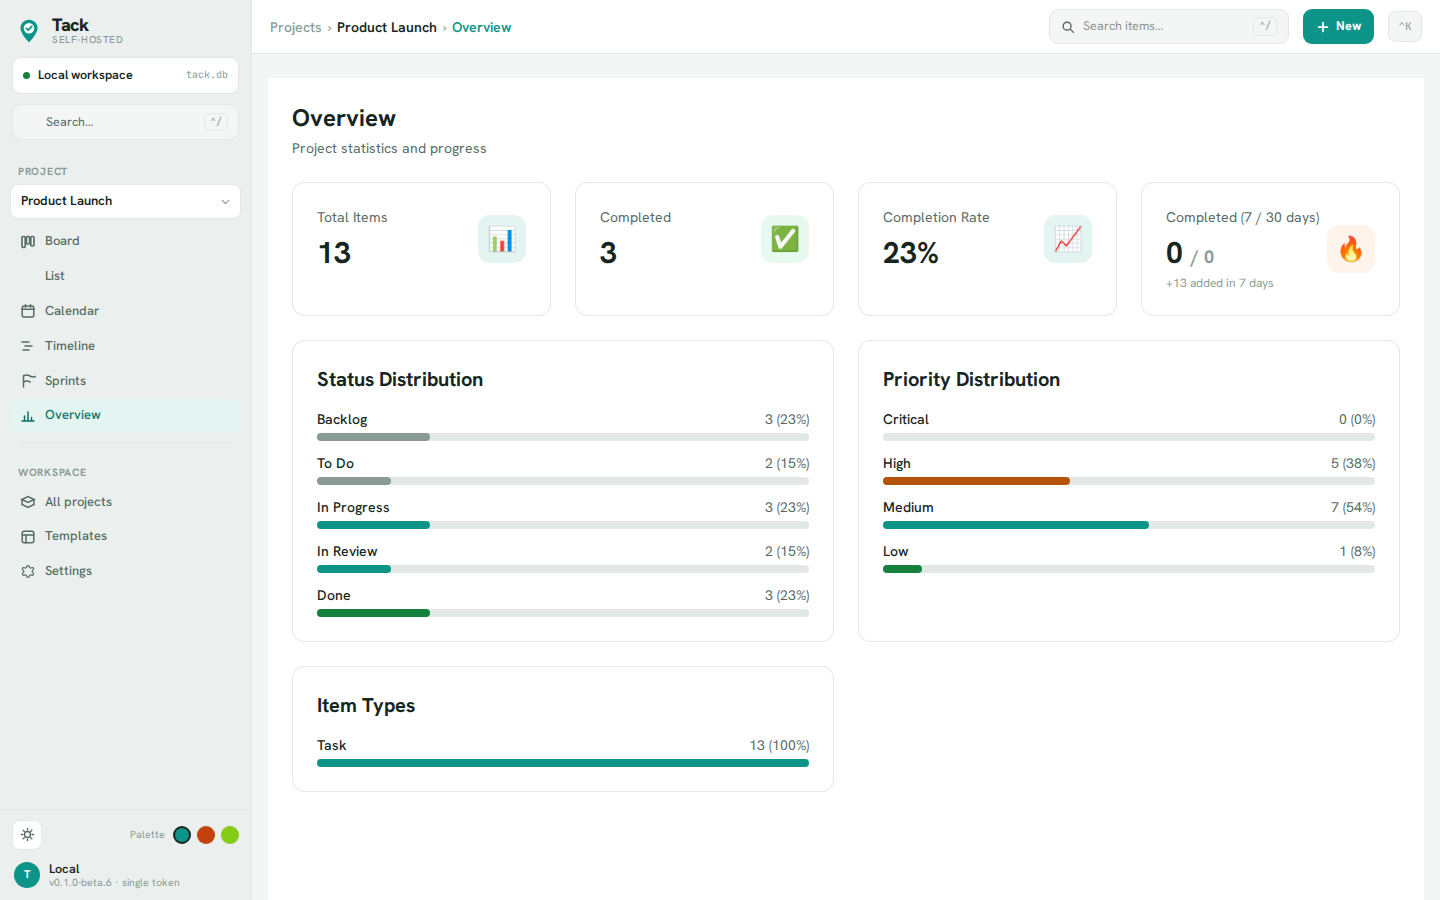
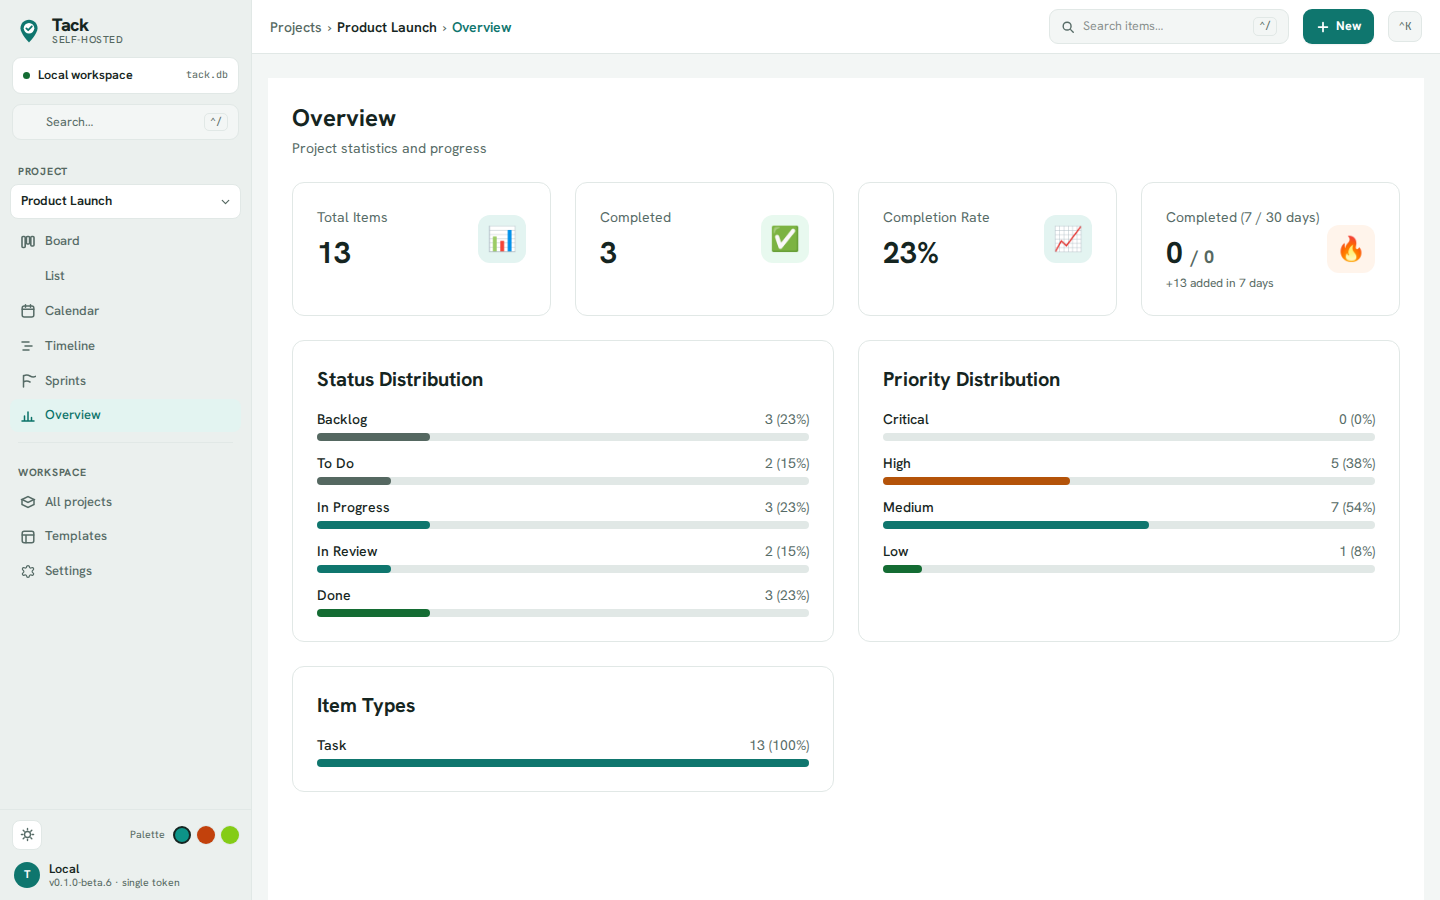
fix(frontend): meet WCAG AA contrast in the redesigned palette
The raw Tack.dc.html design values fell below AA 4.5:1 on light surfaces,
failing the E2E axe color-contrast checks. Darken, per palette:

- teal accent primary-600 #0d9488 -> #0f766e (white-on-accent 3.74 -> 5.47)
- danger-600 #dc2626 -> #b91c1c (danger text on bg-app 4.44 -> pass)
- faint tier text-tertiary (teal/clay/graphite) — design values only reached
  ~2.6-2.9:1; darkened to AA-safe teal/warm/cool grays
- success-600 darkened so success text on its soft surface clears 4.5:1

Refresh README screenshots + hero GIF to the AA-tuned colors.

diff --git a/frontend/src/index.css b/frontend/src/index.css
@@ -43,7 +43,9 @@
 
   --color-text-primary: #152521;
   --color-text-secondary: #566b66;
-  --color-text-tertiary: #8a9b96;
+  /* faint tier darkened from the design's #8a9b96 (only 2.9:1 on white) to a
+     teal-gray that clears WCAG AA 4.5:1 on every light surface, incl. sidebar. */
+  --color-text-tertiary: #556861;
 
   --color-on-accent: #ffffff;
   --color-accent-soft: #e3f4f1;
@@ -52,13 +54,19 @@
   --color-accent2: #3f5d8a;
   --color-accent2-soft: #eaeff7;
 
-  --color-primary-600: #0d9488;
+  /* teal-700 (not -600): white-on-accent must clear WCAG AA 4.5:1 — #0d9488
+     only reaches 3.74. #0f766e gives 5.47 while staying clearly teal. */
+  --color-primary-600: #0f766e;
 
-  --color-success-600: #15803d;
+  /* darkened from #15803d so success text on the success-soft surface and Live
+     pill clears AA 4.5:1 (was 4.42). */
+  --color-success-600: #146c33;
   --color-success-100: #e6f4ec;
   --color-warning-600: #b45309;
   --color-warning-100: #f7ecdb;
-  --color-danger-600: #dc2626;
+  /* red-700: danger text on the light app bg (#f3f6f5) needs 4.5:1 — #dc2626
+     only reaches 4.44. */
+  --color-danger-600: #b91c1c;
   --color-danger-100: #fbe9e9;
 
   --color-bg-overlay: rgb(10 16 14 / 0.42);
@@ -185,7 +193,8 @@
 
   --color-text-primary: #241a12;
   --color-text-secondary: #6e5c4b;
-  --color-text-tertiary: #a08c79;
+  /* faint tier darkened for WCAG AA (design #a08c79 fails on the light bg). */
+  --color-text-tertiary: #6c5b4a;
 
   --color-on-accent: #ffffff;
   --color-accent-soft: #fbe8dd;
@@ -219,7 +228,8 @@
 
   --color-text-primary: #15181d;
   --color-text-secondary: #535a63;
-  --color-text-tertiary: #868d97;
+  /* faint tier darkened for WCAG AA (design #868d97 fails on the light bg). */
+  --color-text-tertiary: #595f68;
 
   --color-on-accent: #1a2e05;
   --color-accent-soft: #eef7dc;
@@ -230,11 +240,11 @@
 
   --color-primary-600: #84cc16;
 
-  --color-success-600: #16a34a;
+  --color-success-600: #157a37;
   --color-success-100: #e7f5ec;
   --color-warning-600: #d97706;
   --color-warning-100: #fcefdd;
-  --color-danger-600: #dc2626;
+  --color-danger-600: #b91c1c;
   --color-danger-100: #fbe9e9;
 }
 
